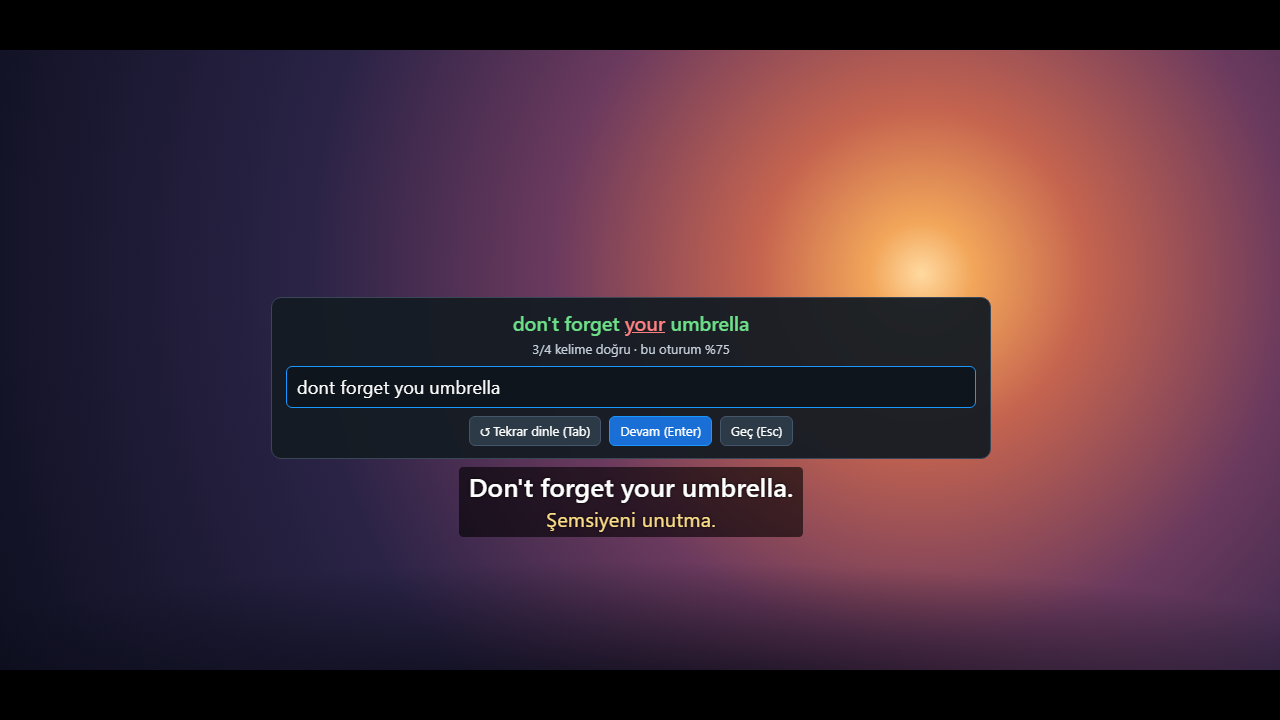
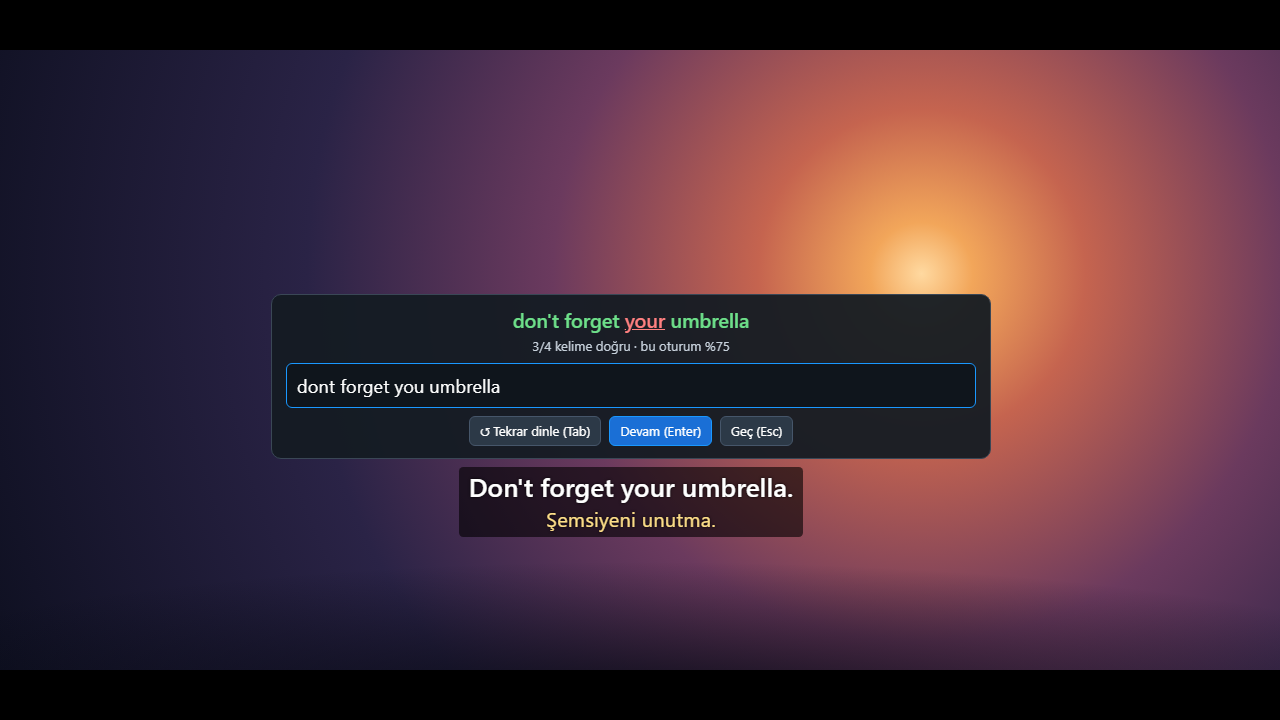
Fix listening practice on the real player
Replay now starts playback by itself: the site's player can put the
video back on pause when a seek made while paused completes, so play is
requested again once the seek is done.

The answer box is an editable element instead of an <input>. Chrome
offered saved payment cards in the input, and while that list was open
it swallowed Tab and Enter, so the replay shortcut did nothing.

Changed region(s): [[0.2188, 0.3972, 0.7812, 0.5194], [0.2188, 0.5194, 0.375, 0.55]]

diff --git a/extension/content.js b/extension/content.js
@@ -28,6 +28,7 @@
   let autoPausedFor = -1;
   let lastIdx = -1; // cue shown on the previous frame; -1 after a seek
   let ownSeek = false;
+  let playToken = 0; // changes whenever playback is started or paused on purpose
   let hoverPaused = false;
   let popupToken = 0;
   let popupWord = null;
@@ -374,7 +375,7 @@
     const practise = due >= 0 && settings.dictation && spokenWords(cues[due].text).length > 0;
     if (due >= 0 && (settings.autoPause || practise) && !video.paused && autoPausedFor !== due) {
       autoPausedFor = due;
-      video.pause();
+      pauseVideo();
       if (due !== idx) {
         // A late frame skipped the pause window: step back to just before the end of that line.
         t = cues[due].end - 0.05;
@@ -498,7 +499,28 @@
     autoPausedFor = -1;
     lastIdx = -1;
     hoverPaused = false;
-    if (video.paused) video.play().catch(() => {});
+    playAfterSeek();
+  }
+
+  function pauseVideo() {
+    playToken++;
+    video.pause();
+  }
+
+  // Seeking while paused does not reliably leave the site's player playing: it can put the video
+  // back on pause when the seek completes. So playback is asked for again once the seek is done.
+  function playAfterSeek() {
+    const v = video;
+    const token = ++playToken;
+    const play = () => {
+      if (token === playToken && v === video && v.paused) v.play().catch(() => {});
+    };
+    play();
+    v.addEventListener('seeked', () => {
+      play();
+      setTimeout(play, 200);
+      setTimeout(play, 600);
+    }, { once: true });
   }
 
   function nav(dir) {
@@ -539,7 +561,7 @@
     const cue = primary && primary.cues[shown.idx];
     const lang = primary ? primary.track.languageCode : '';
     if (video && !video.paused && (pin || settings.hoverPause)) {
-      video.pause();
+      pauseVideo();
       hoverPaused = true;
     }
     const token = ++popupToken;
@@ -795,7 +817,7 @@
     const text = cueSentence();
     if (!text) return;
     if (video && !video.paused) {
-      video.pause();
+      pauseVideo();
       hoverPaused = true;
     }
     speak(text, slow);
@@ -835,7 +857,7 @@
     if (!dict || dict.idx !== idx) {
       dict = { idx, checked: false };
       ui.root.classList.remove('sl-reveal');
-      ui.dictInput.value = '';
+      ui.dictInput.textContent = '';
       ui.dictResult.textContent = '';
       ui.dictResult.hidden = true;
       ui.dictGo.textContent = 'Kontrol et (Enter)';
@@ -846,7 +868,7 @@
 
   function checkDictation() {
     const expected = spokenWords(primary.cues[dict.idx].text);
-    const hit = matchWords(expected, spokenWords(ui.dictInput.value));
+    const hit = matchWords(expected, spokenWords(ui.dictInput.textContent));
     const ok = hit.filter(Boolean).length;
     dictStats.ok += ok;
     dictStats.total += expected.length;
@@ -981,10 +1003,13 @@
     dictEl.hidden = true;
     const dictResult = el('div', 'sl-dict-result');
     dictResult.hidden = true;
-    const dictInput = el('input', 'sl-dict-input');
-    dictInput.type = 'text';
-    dictInput.placeholder = 'Duyduğunu yaz…';
-    dictInput.autocomplete = 'off';
+    // An editable box rather than an <input>: the browser offers saved cards and addresses in
+    // form fields, and while that list is open it takes Tab and Enter for itself.
+    const dictInput = el('div', 'sl-dict-input');
+    dictInput.contentEditable = 'plaintext-only';
+    dictInput.setAttribute('role', 'textbox');
+    dictInput.setAttribute('aria-label', 'Duyduğunu yaz');
+    dictInput.dataset.placeholder = 'Duyduğunu yaz…';
     dictInput.spellcheck = false;
     const dictBtns = el('div', 'sl-dict-btns');
     const dictAgain = el('button', null, '↺ Tekrar dinle (Tab)');
@@ -1171,7 +1196,7 @@
     popup.addEventListener('mouseleave', scheduleClose);
     box.addEventListener('mouseenter', () => {
       if (settings.hoverPause && video && !video.paused) {
-        video.pause();
+        pauseVideo();
         hoverPaused = true;
       }
     });

diff --git a/test/harness.html b/test/harness.html
@@ -29,6 +29,14 @@ window.loadTitle = (viaXhr) => {
   if (!viaXhr) return fetch('/test/api/GetPlaybackResources.json').then(r => r.json());
   const x = new XMLHttpRequest(); x.open('GET', '/test/api/GetPlaybackResources.json'); x.send();
 };
+// A player that keeps its own idea of playing/paused and re-applies it when a seek completes,
+// as streaming players tend to. Enabled with ?strict.
+if (new URLSearchParams(location.search).has('strict')) {
+  let sitePlaying = false;
+  v.addEventListener('play', () => { if (!v.seeking) sitePlaying = true; });
+  v.addEventListener('pause', () => { if (!v.seeking) sitePlaying = false; });
+  v.addEventListener('seeked', () => { if (!sitePlaying) v.pause(); });
+}
 // Pretend the player's own captions run `shift` seconds behind the video clock.
 window.simulateNative = (shift) => fetch('/test/subs/en.ttml2?native').then(r => r.text()).then(t => {
   const cues = [...new DOMParser().parseFromString(t, 'application/xml').getElementsByTagNameNS('*', 'p')].map(p => {

diff --git a/extension/content.css b/extension/content.css
@@ -137,6 +137,18 @@ html.sl-hide-native .atvwebplayersdk-captions-text {
   user-select: text;
   -webkit-user-select: text;
 }
+#scenelingo-root .sl-dict-input {
+  min-height: calc(1.5em + 18px);
+  line-height: 1.5;
+  text-align: left;
+  white-space: pre-wrap;
+  overflow-wrap: anywhere;
+  cursor: text;
+}
+#scenelingo-root .sl-dict-input:empty::before {
+  content: attr(data-placeholder);
+  color: #6f8294;
+}
 #scenelingo-root .sl-dict-input:focus {
   border-color: #1a98ff;
 }

diff --git a/test/demo.js b/test/demo.js
@@ -45,7 +45,7 @@
     video.play().catch(() => {});
     await until(() => !q('.sl-dict').hidden);
     const input = q('.sl-dict-input');
-    input.value = 'dont forget you umbrella';
+    input.textContent = 'dont forget you umbrella';
     key('Enter', input);
     q('.sl-toast').hidden = true;
   }
